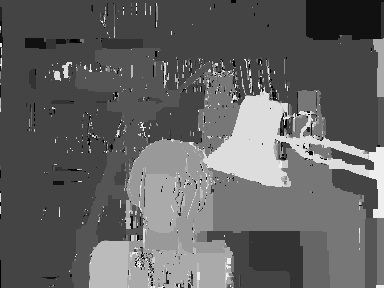
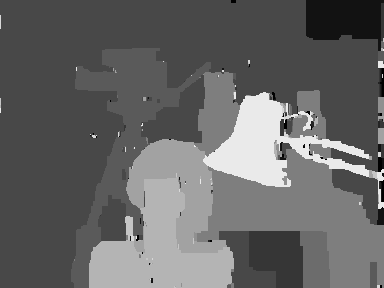
best energy function

diff --git a/stereoMatching.py b/stereoMatching.py
@@ -1,20 +1,14 @@
 # width(y) and height(x) is opposite
-from matplotlib import pyplot
 import numpy as np
-from PIL import Image
 # import PIL.image 	#require PIL package installation. 
 import cv2 	#
 # from energy import energy.py
-import collections # check 2 list has same elements elements 
 from itertools import permutations, combinations # for choosing alpha/beta randomly
 import copy # to do deep copy
 import time
 import maxflow
 def imageProcess(file):
 	im=cv2.imread(file)
-	height,width,color = im.shape
-	#WIDTH is y-axis, HEIGHT is x-axis
-	pixelNum=width*height
 	im2=cv2.cvtColor(im,cv2.COLOR_BGR2GRAY)
 	# data=im.getdata()
 	data=np.array(im2,dtype='int')
@@ -61,10 +55,10 @@ def energyData(x,y,label,l1,r1):
 
 	if (y+label+1>=w):
 		# deal with boundary of the image. some pixel in right omage do not appear in left image
-		return min(np.absolute(r1[x][y]-l1[x][y-label-1]),20)
+		return np.absolute(r1[x][y]-l1[x][y-label-1])
 	else:
 		
-		return min(np.absolute(r1[x][y]-l1[x][y+label+1]),20)
+		return np.absolute(r1[x][y]-l1[x][y+label+1])
 def energySmoothness(x,y,r1,dDict):
 	totalcount=0
 	alpha = dDict[x][y]
@@ -72,10 +66,10 @@ def energySmoothness(x,y,r1,dDict):
 	beta=0
 	if(x>=1):
 		beta=dDict[x-1][y]
-		totalcount+=((alpha-beta)!=0)*(20*(np.absolute(r1[x][y]-r1[x-1][y])>=10)+40*(np.absolute(r1[x][y]-r1[x-1][y])<10))
+		totalcount+=((alpha-beta)!=0)*(10*(np.absolute(r1[x][y]-r1[x-1][y])>=10)+15*(np.absolute(r1[x][y]-r1[x-1][y])<10))
 	if(y>=1):
 		beta=dDict[x][y-1]
-		totalcount+=((alpha-beta)!=0)*(20*(np.absolute(r1[x][y]-r1[x][y-1])>=10)+40*(np.absolute(r1[x][y]-r1[x][y-1])<10))
+		totalcount+=((alpha-beta)!=0)*(10*(np.absolute(r1[x][y]-r1[x][y-1])>=10)+15*(np.absolute(r1[x][y]-r1[x][y-1])<10))
 	
 	return totalcount
 
@@ -87,16 +81,16 @@ def energysmooth(x,y,r1,dDict):
 	beta=0
 	if(x>=1 and dDict[x-1][y]!=alpha and dDict[x-1][y]!=beta):
 		beta=dDict[x-1][y]
-		energeycount+=((alpha-beta)!=0)*(20*(np.absolute(r1[x][y]-r1[x-1][y])>=10)+40*(np.absolute(r1[x][y]-r1[x-1][y])<10))
+		energeycount+=((alpha-beta)!=0)*(10*(np.absolute(r1[x][y]-r1[x-1][y])>=10)+15*(np.absolute(r1[x][y]-r1[x-1][y])<10))
 	if(y>=1 and dDict[x][y-1]!=alpha and dDict[x][y-1]!=beta):
 		beta=dDict[x][y-1]
-		energeycount+=((alpha-beta)!=0)*(20*(np.absolute(r1[x][y]-r1[x][y-1])>=10)+40*(np.absolute(r1[x][y]-r1[x][y-1])<10))
+		energeycount+=((alpha-beta)!=0)*(10*(np.absolute(r1[x][y]-r1[x][y-1])>=10)+15*(np.absolute(r1[x][y]-r1[x][y-1])<10))
 	if(x<=h-2 and dDict[x+1][y]!=alpha and dDict[x+1][y]!=beta):
 		beta=dDict[x+1][y]
-		energeycount+=((alpha-beta)!=0)*(20*(np.absolute(r1[x][y]-r1[x+1][y])>=10)+40*(np.absolute(r1[x][y]-r1[x+1][y])<10))
+		energeycount+=((alpha-beta)!=0)*(10*(np.absolute(r1[x][y]-r1[x+1][y])>=10)+15*(np.absolute(r1[x][y]-r1[x+1][y])<10))
 	if(y<=w-2 and dDict[x][y+1]!=alpha and dDict[x][y+1]!=beta):
 		beta=dDict[x][y+1]
-		energeycount+=((alpha-beta)!=0)*(20*(np.absolute(r1[x][y]-r1[x][y+1])>=10)+40*(np.absolute(r1[x][y]-r1[x][y+1])<10))
+		energeycount+=((alpha-beta)!=0)*(10*(np.absolute(r1[x][y]-r1[x][y+1])>=10)+15*(np.absolute(r1[x][y]-r1[x][y+1])<10))
 
 	del alpha 
 	
@@ -106,7 +100,7 @@ def energysmooth(x,y,r1,dDict):
 
 
 def edgeEnergy(alpha,beta,int1,int2):
-	energy = ((alpha-beta)!=0)*((np.absolute(int1-int2)>=10)*20+40*(np.absolute(int1-int2)<10))
+	energy = ((alpha-beta)!=0)*((np.absolute(int1-int2)>=10)*10+15*(np.absolute(int1-int2)<10))
 	return energy
 
 
@@ -277,7 +271,7 @@ def main():
 
 	# dis_image = np.zeros(right_image.shape,dtype = int)
 	# cv2.imwrite('Initial.png',dis_image)
-	disInd = 9
+	disInd = 14
 
 	# step = np.floor(255/disInd)
 
@@ -285,8 +279,8 @@ def main():
 	print("Initial State Done!\n Now Swap")
 	result_image = swap(initial[1],initial[0],left_image,right_image,disInd)
 
-	result_median_image = cv2.medianBlur(result_image,3)
-	cv2.imwrite('Final Result with Median Filter.png',result_median_image)
+#	result_median_image = cv2.medianBlur(result_image,3)
+#	cv2.imwrite('Final Result with Median Filter.png',result_median_image)
 
 
 
